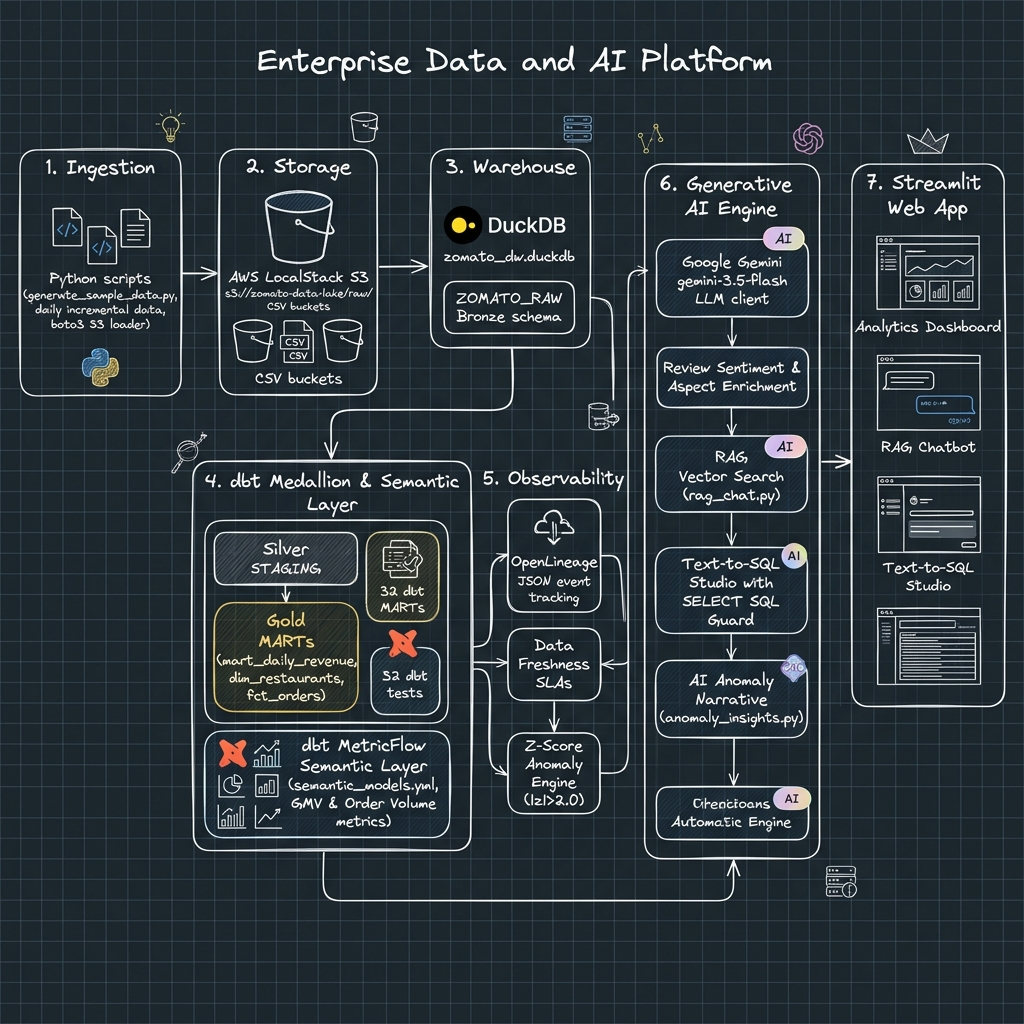
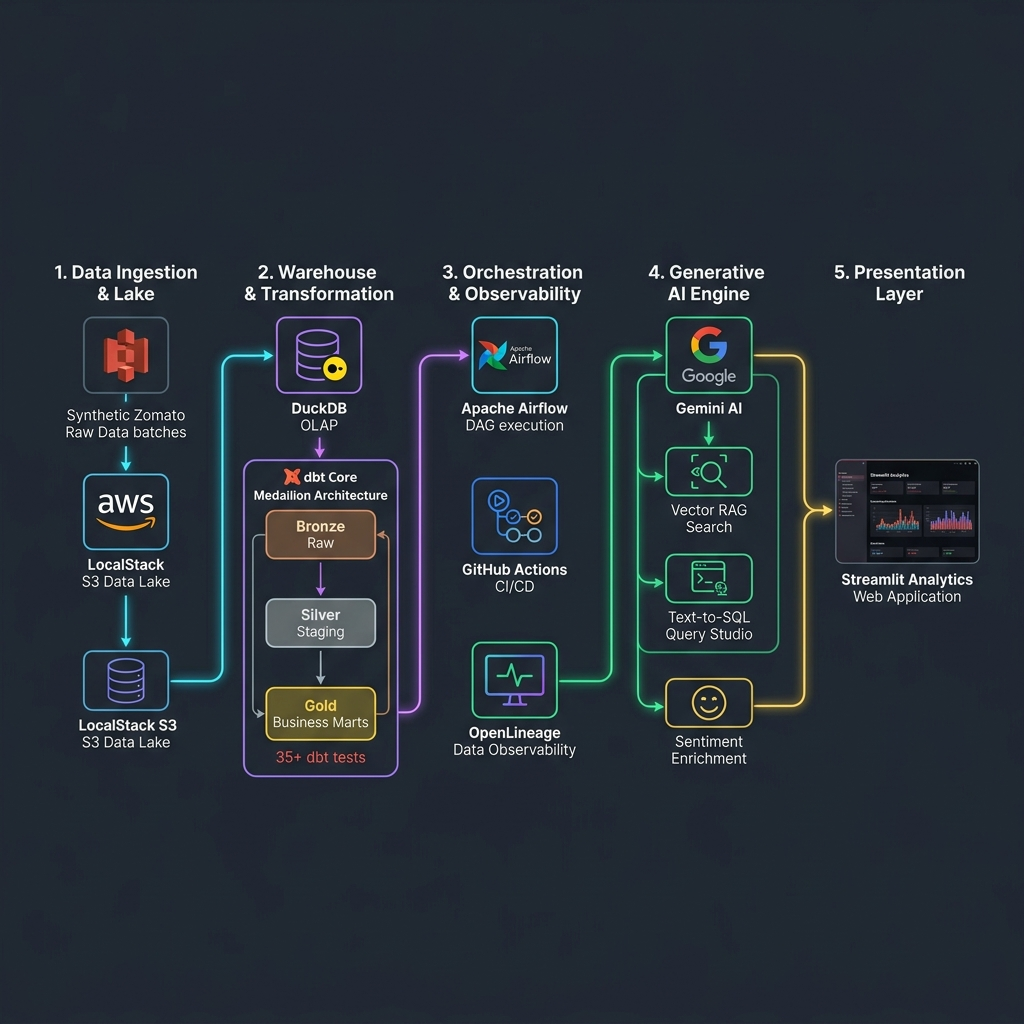
docs: update architecture diagram with modern tech stack visual and refine section titles

diff --git a/README.md b/README.md
@@ -15,7 +15,7 @@ An end-to-end modern batch data engineering and generative AI analytics platform
 
 ---
 
-## 📐 Architecture Diagram & Data Flow (Excalidraw Format)
+## 📐 Architecture Diagram & Data Flow
 
 ![Data Architecture Diagram](images/architecture_diagram.png)
 
